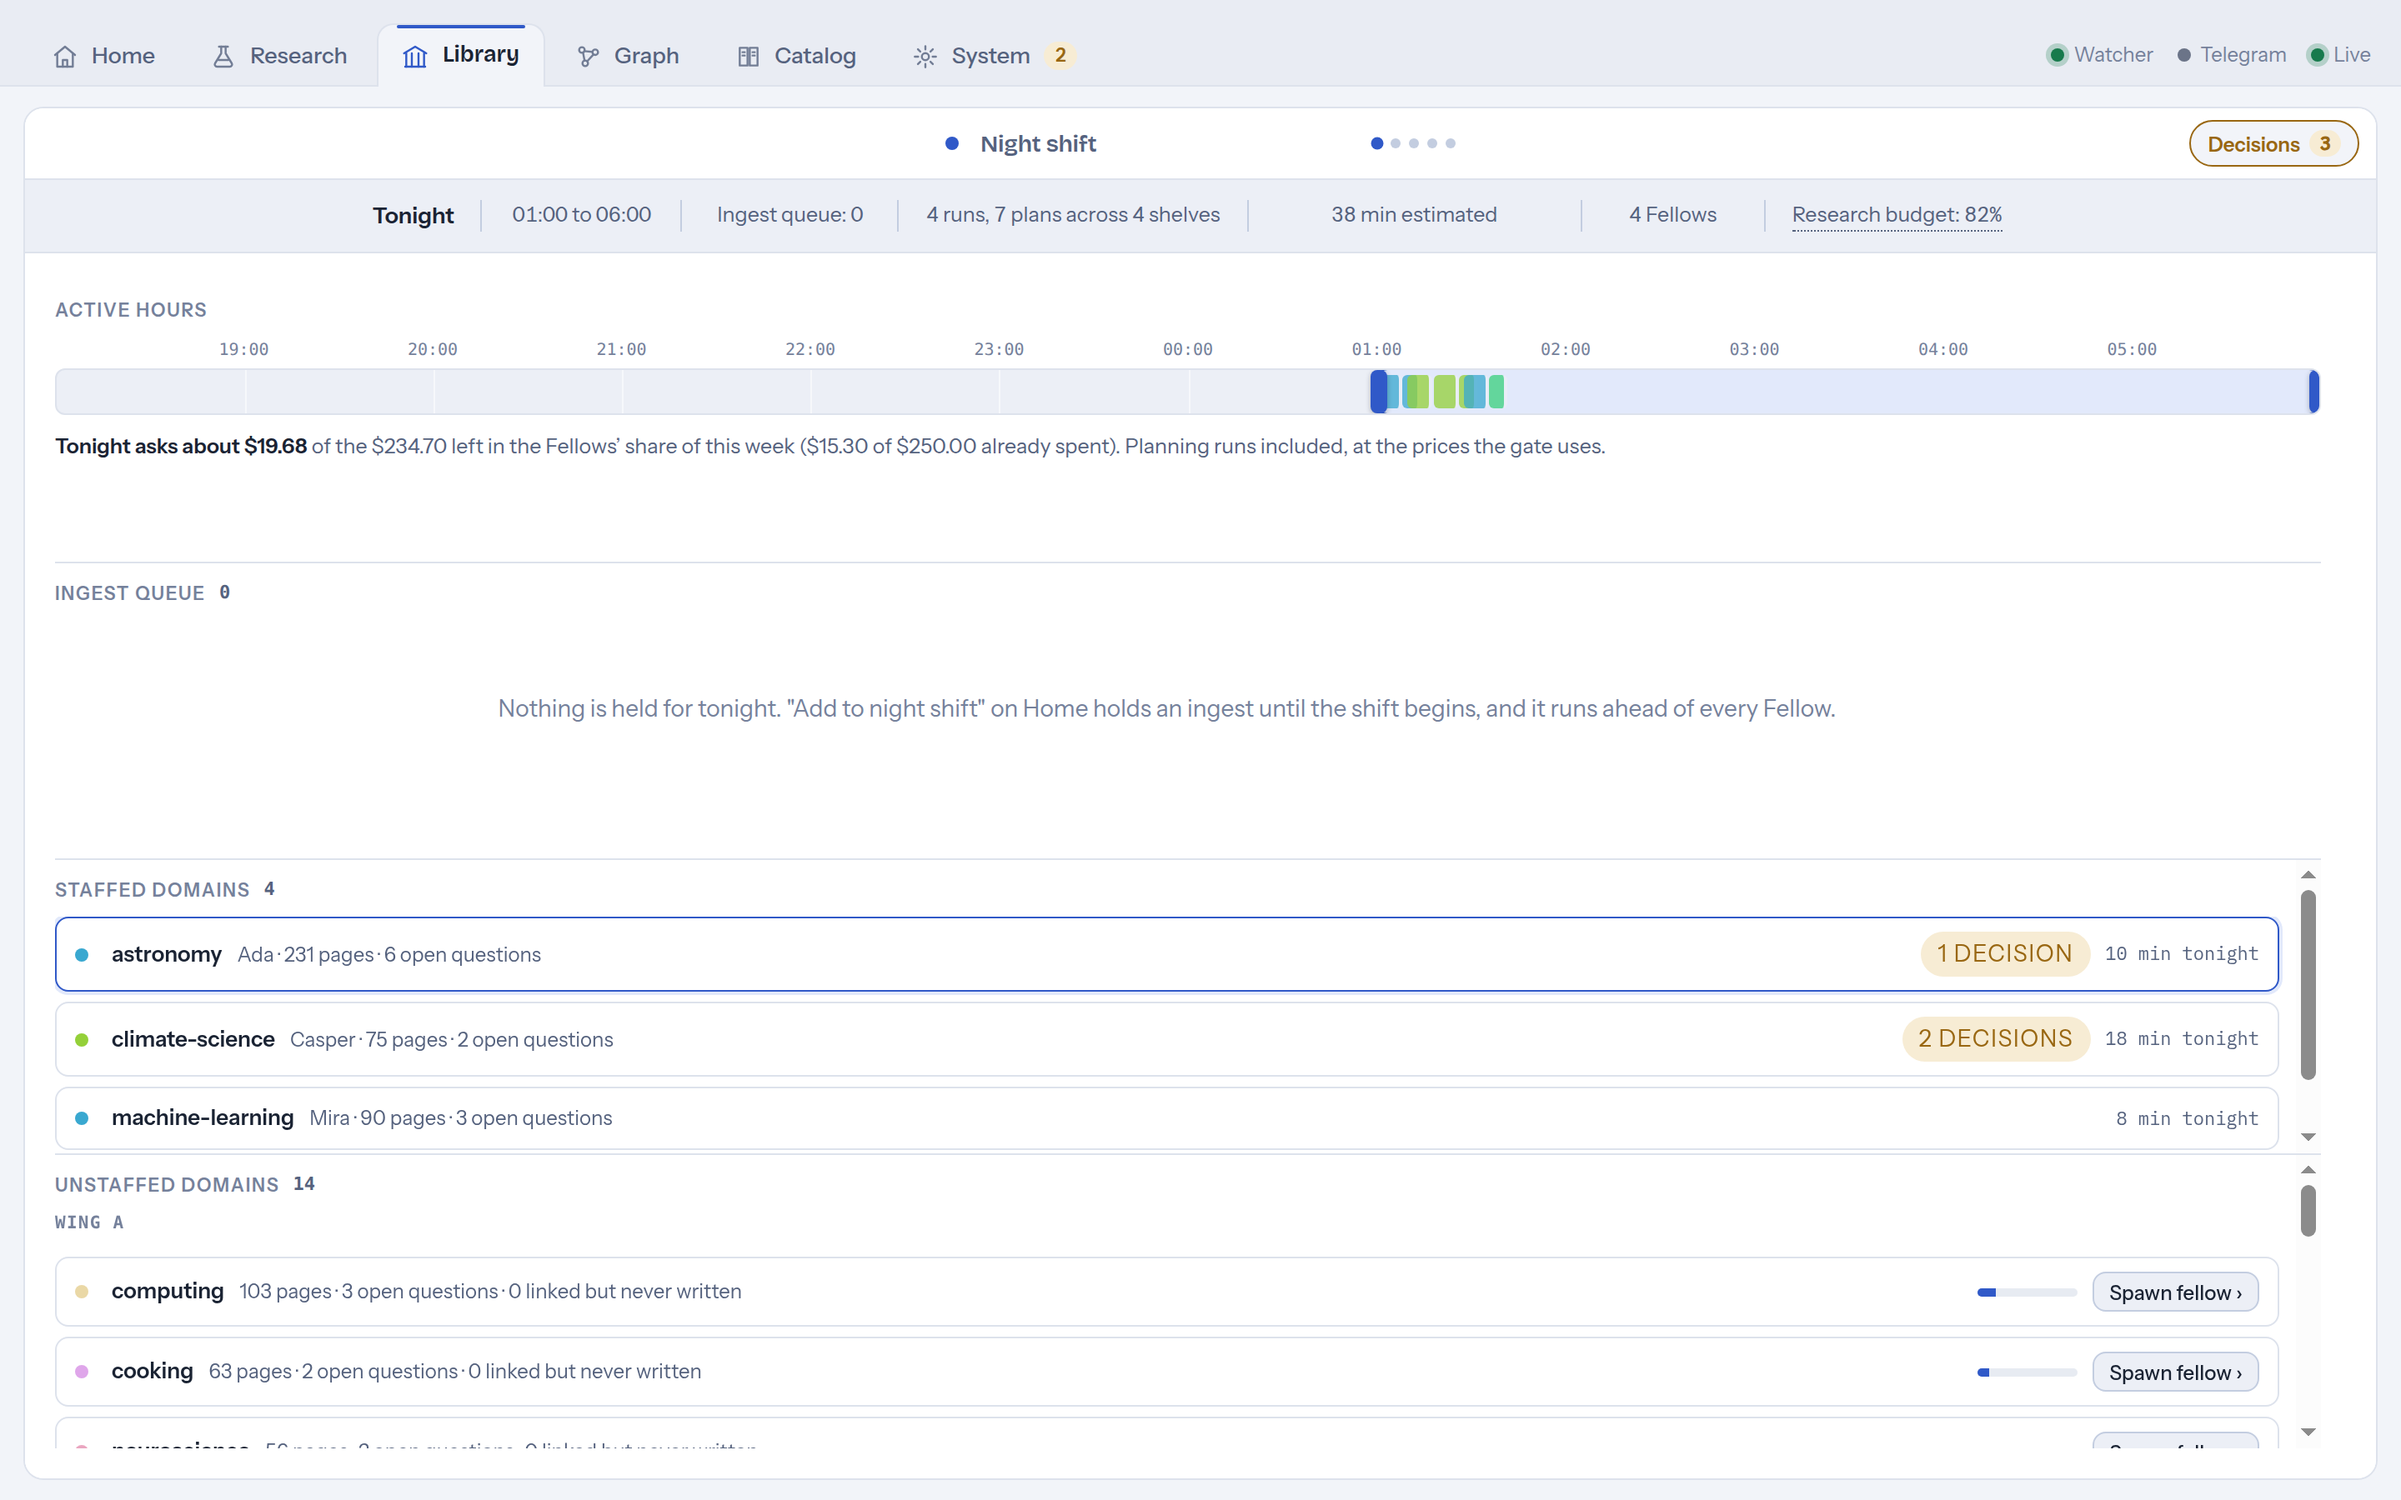
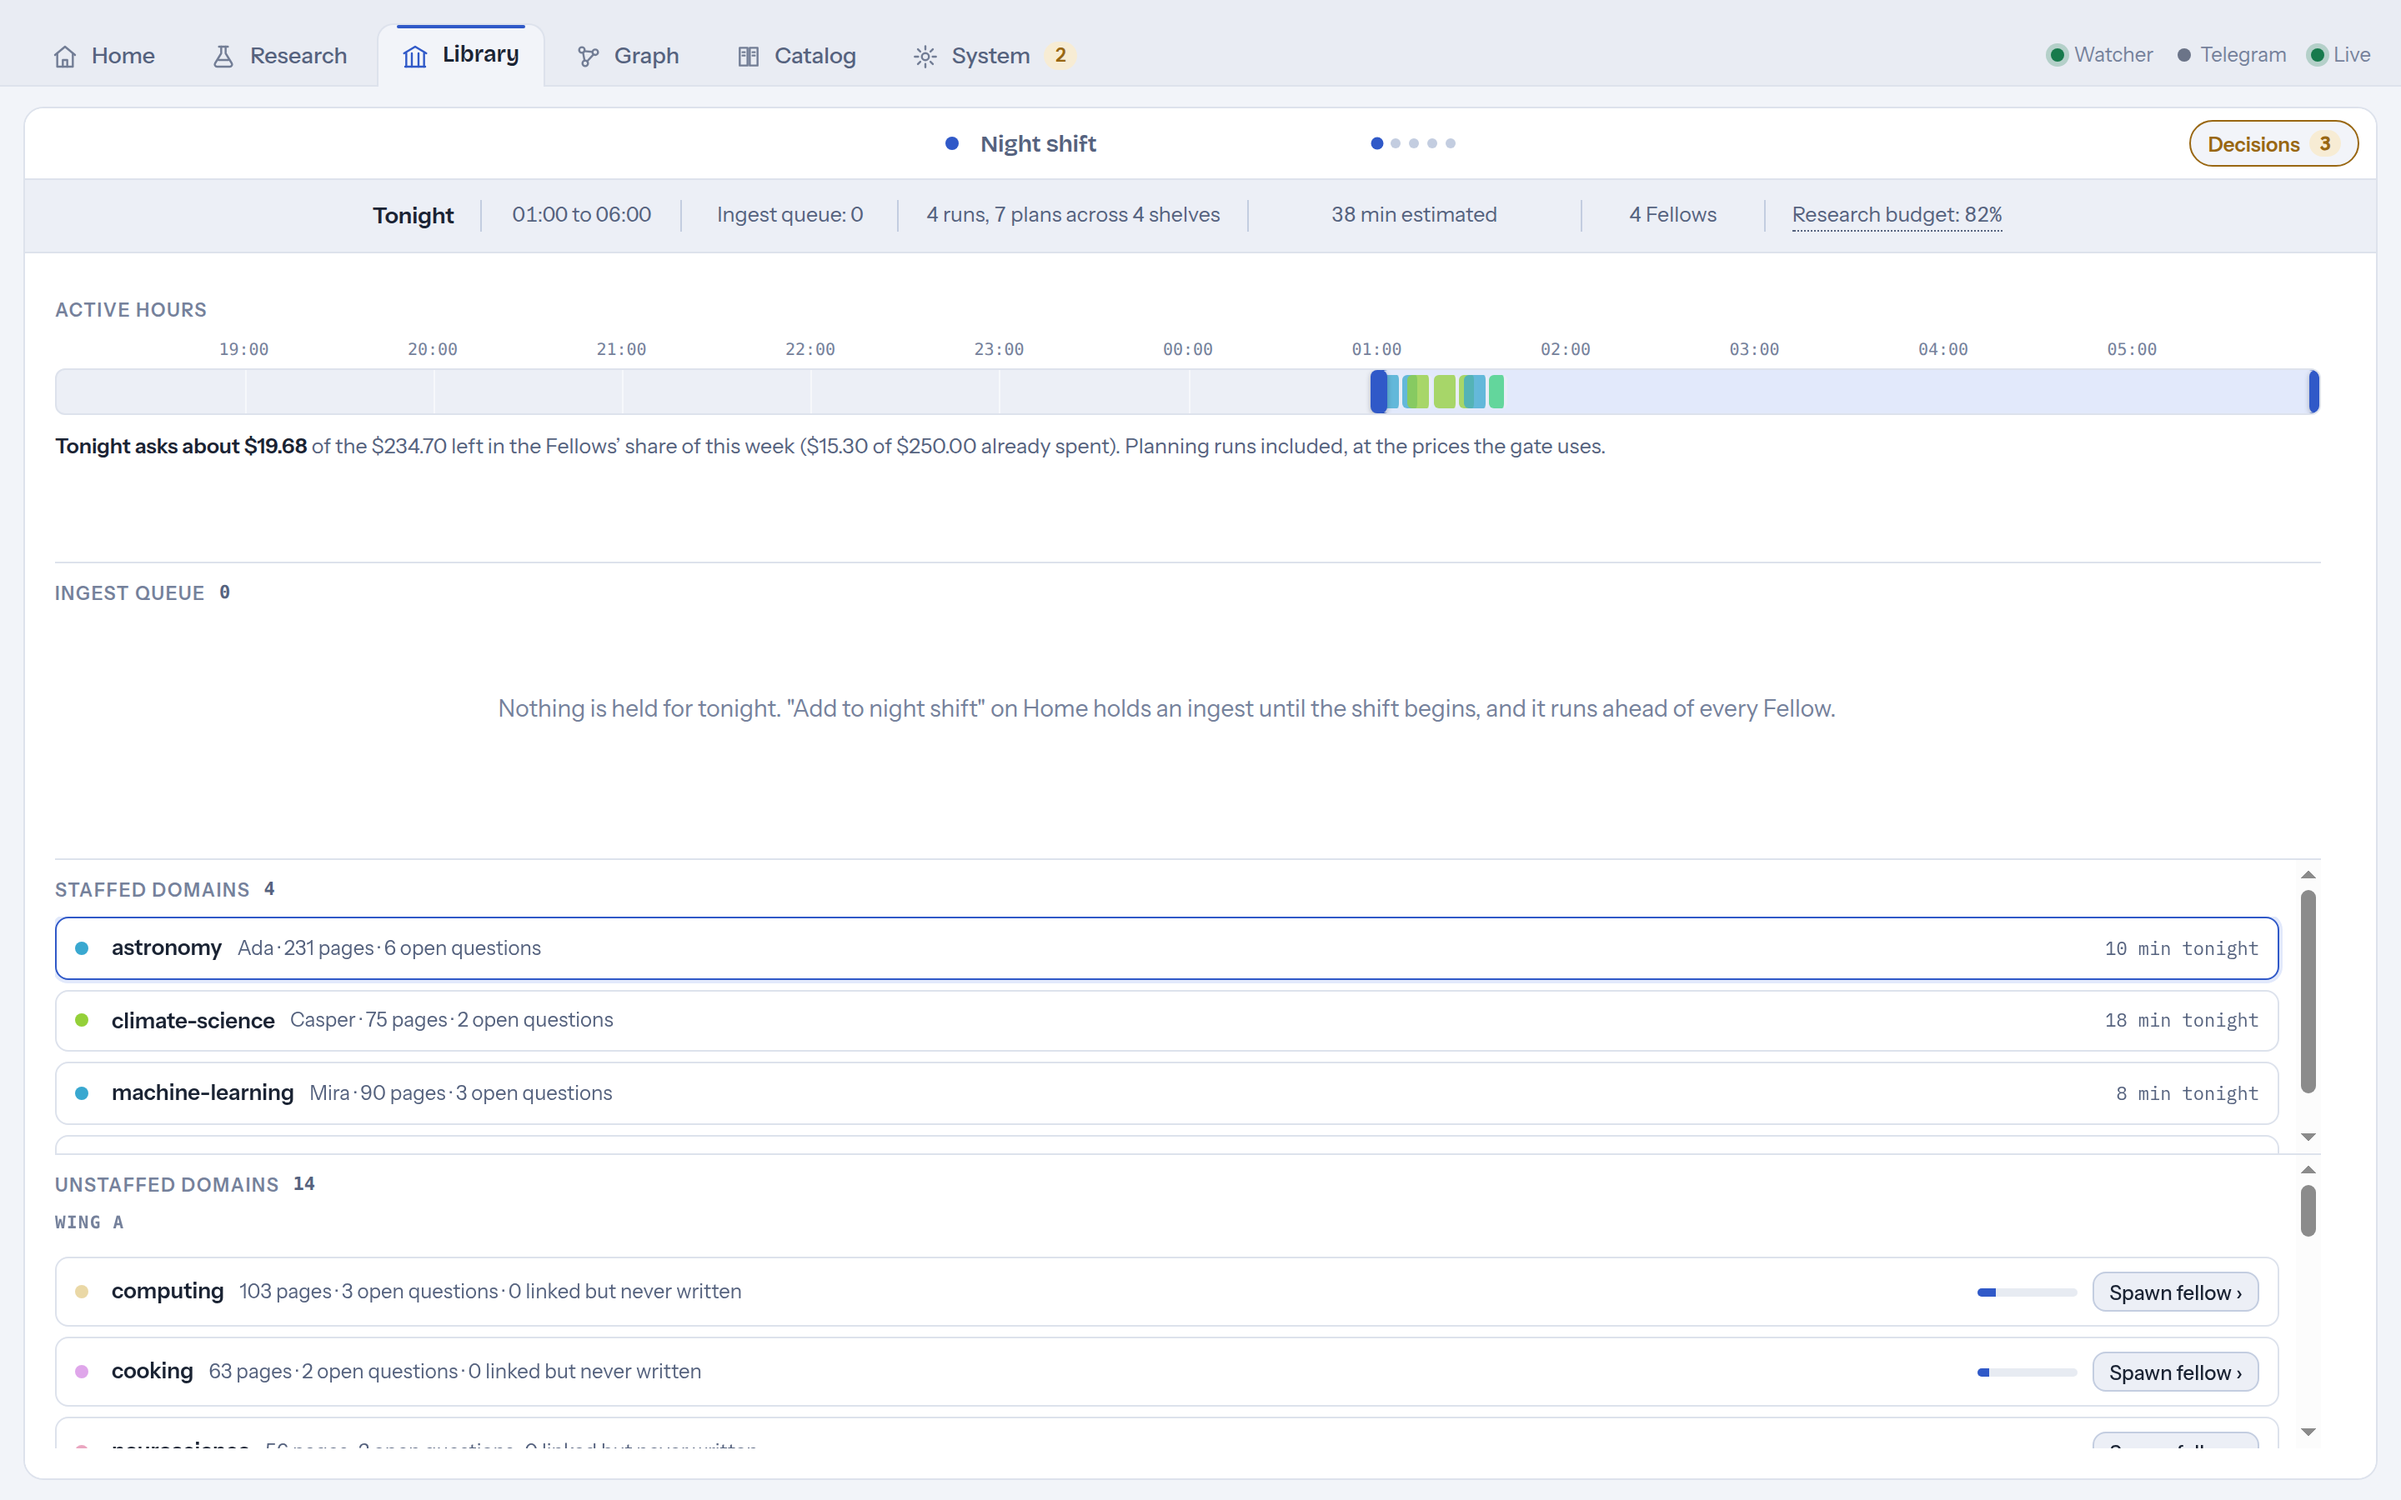
feat(web): the staffed-domain rows drop their decision pill
The window's own Decisions button already counts every undecided proposal and is
the way into them. A second count per row said the same thing in a second place,
and it put a second target on a row that is itself a link - so a click meant to
open the shelf could land on a button that opened something else instead.

The path it offered goes with it: nothing else called `onDecisions`, so the prop
and the handler behind it are gone rather than left as a seam nobody uses. The
Fellows list in the tonight view keeps its own pill, which is a different row
about a different thing.

README screenshot re-shot.

Changed region(s): [[0.0312, 0.6222, 0.9688, 0.7778]]

diff --git a/web/src/components/library/CommandCentre.tsx b/web/src/components/library/CommandCentre.tsx
@@ -989,13 +989,6 @@ export function CommandCentre({
               removing={removeHeld.isPending}
               onOpen={(i) => { setStop(i); setRow(0); setView('tonight') }}
               onSpawn={openSpawn}
-              onDecisions={(key) => {
-                const first = deciders.findIndex((x) => x.shelf.key === key)
-                if (first < 0) return
-                setDecIndex(first)
-                setOptIndex(0)
-                setView('decisions')
-              }}
             />
           </div>
         </>
@@ -1492,7 +1485,6 @@ function Shelves({
   removing,
   onOpen,
   onSpawn,
-  onDecisions,
 }: {
   staffed: readonly Shelf[]
   empty: readonly Shelf[]
@@ -1507,7 +1499,6 @@ function Shelves({
   removing: boolean
   onOpen: (index: number) => void
   onSpawn: (key: string) => void
-  onDecisions: (key: string) => void
 }): React.ReactElement {
   return (
     <>
@@ -1588,7 +1579,6 @@ function Shelves({
           <div className="cc-rows">
             {staffed.map((d, i) => {
               const nightly = blocks.filter((b) => b.shelf === d.key).reduce((n, b) => n + b.minutes, 0)
-              const open = d.fellows.reduce((n, f) => n + f.undecidedProposals, 0)
               return (
                 <div key={d.key} className={`cc-row one ${i === row ? 'sel' : ''}`} onClick={() => onOpen(i)}>
                   <span className="chip-dot" style={{ background: domainColor(d.key) }} aria-hidden />
@@ -1597,11 +1587,10 @@ function Shelves({
                     {d.fellows.map((f) => f.agent.name).join(', ')} · {d.pages} pages · {d.questions} open question{d.questions === 1 ? '' : 's'}
                   </span>
                   <span className="grow" />
-                  {open > 0 && (
-                    <button className="sev due cc-pill" onClick={(e) => { e.stopPropagation(); onDecisions(d.key) }}>
-                      {open} decision{open === 1 ? '' : 's'}
-                    </button>
-                  )}
+                  {/* No per-shelf decision pill (2026-09-17). The window's own Decisions button
+                      already counts every one of them and is the way into them; a second count
+                      per row said the same thing in a second place and put a second target on a
+                      row that is itself a link. */}
                   <span className="mono-meta">{nightly > 0 ? `${nightly} min tonight` : 'nothing tonight'}</span>
                 </div>
               )
